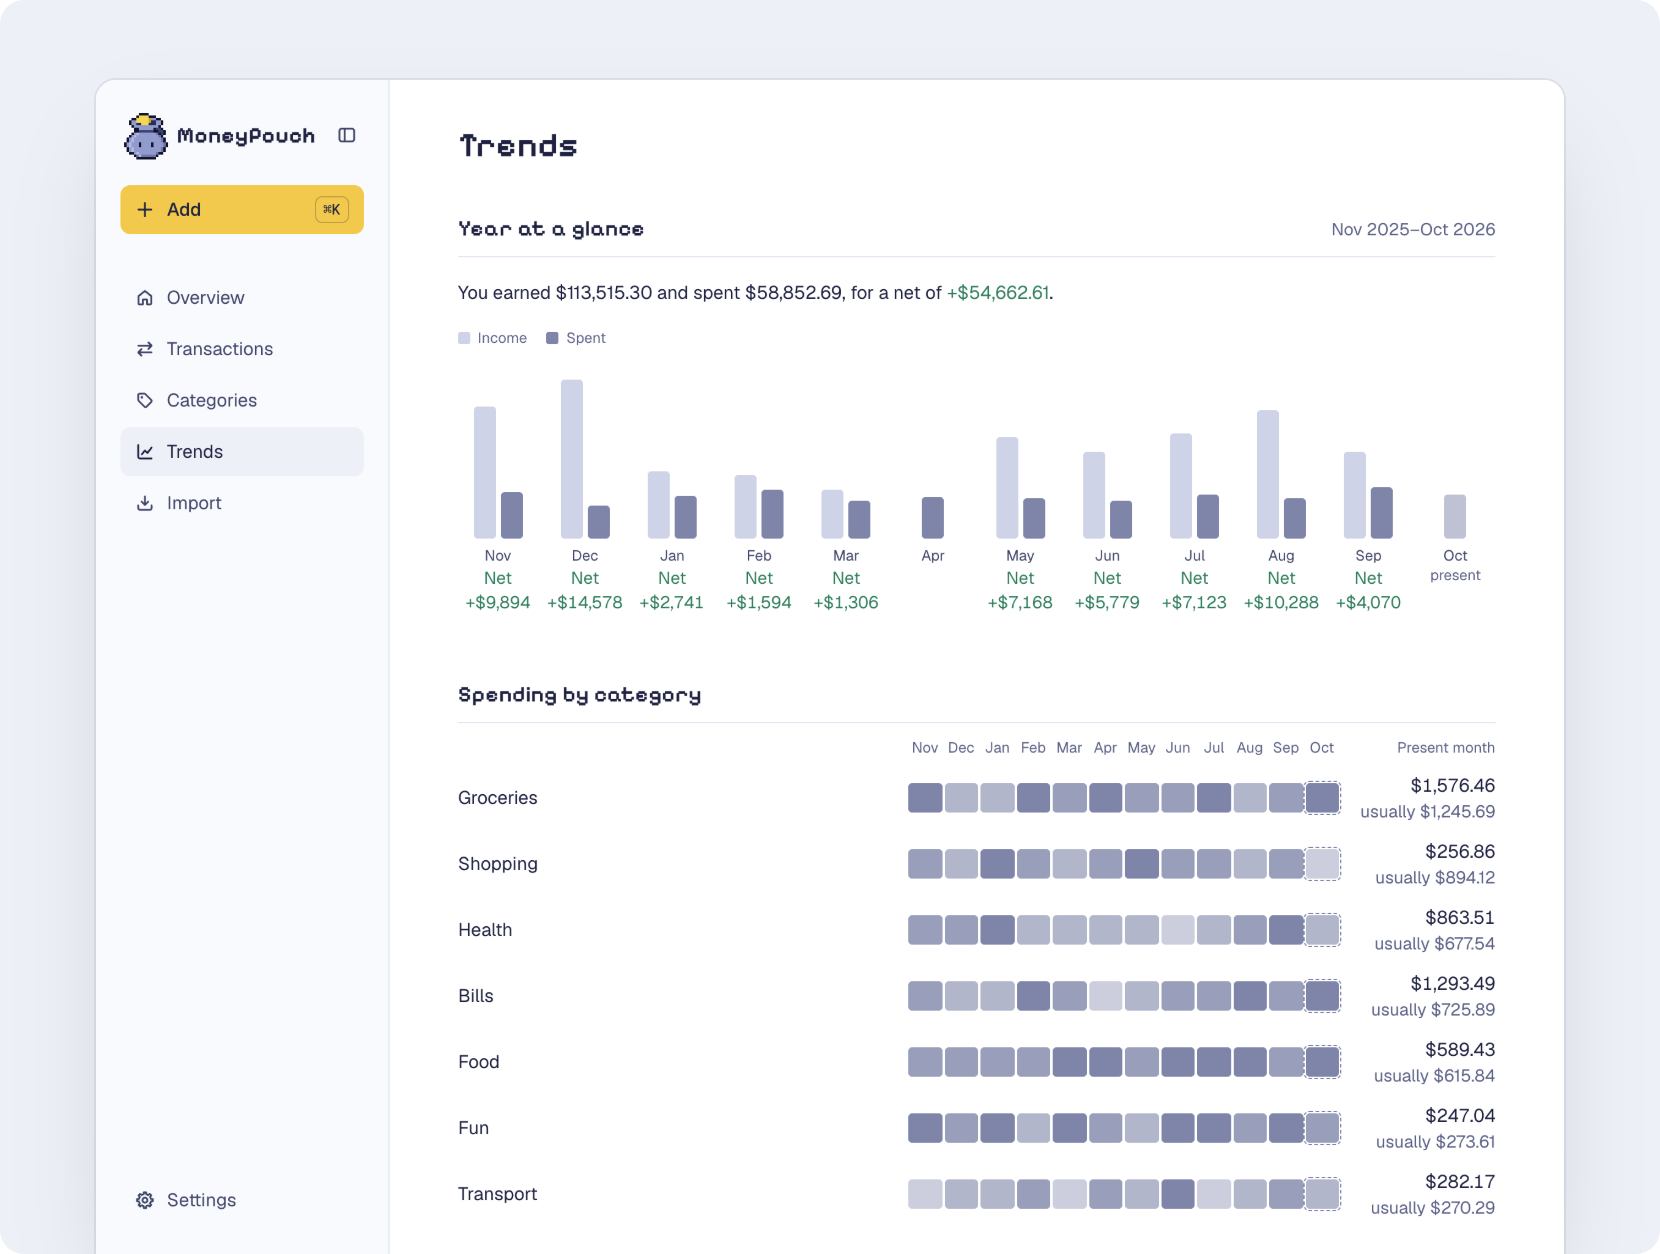
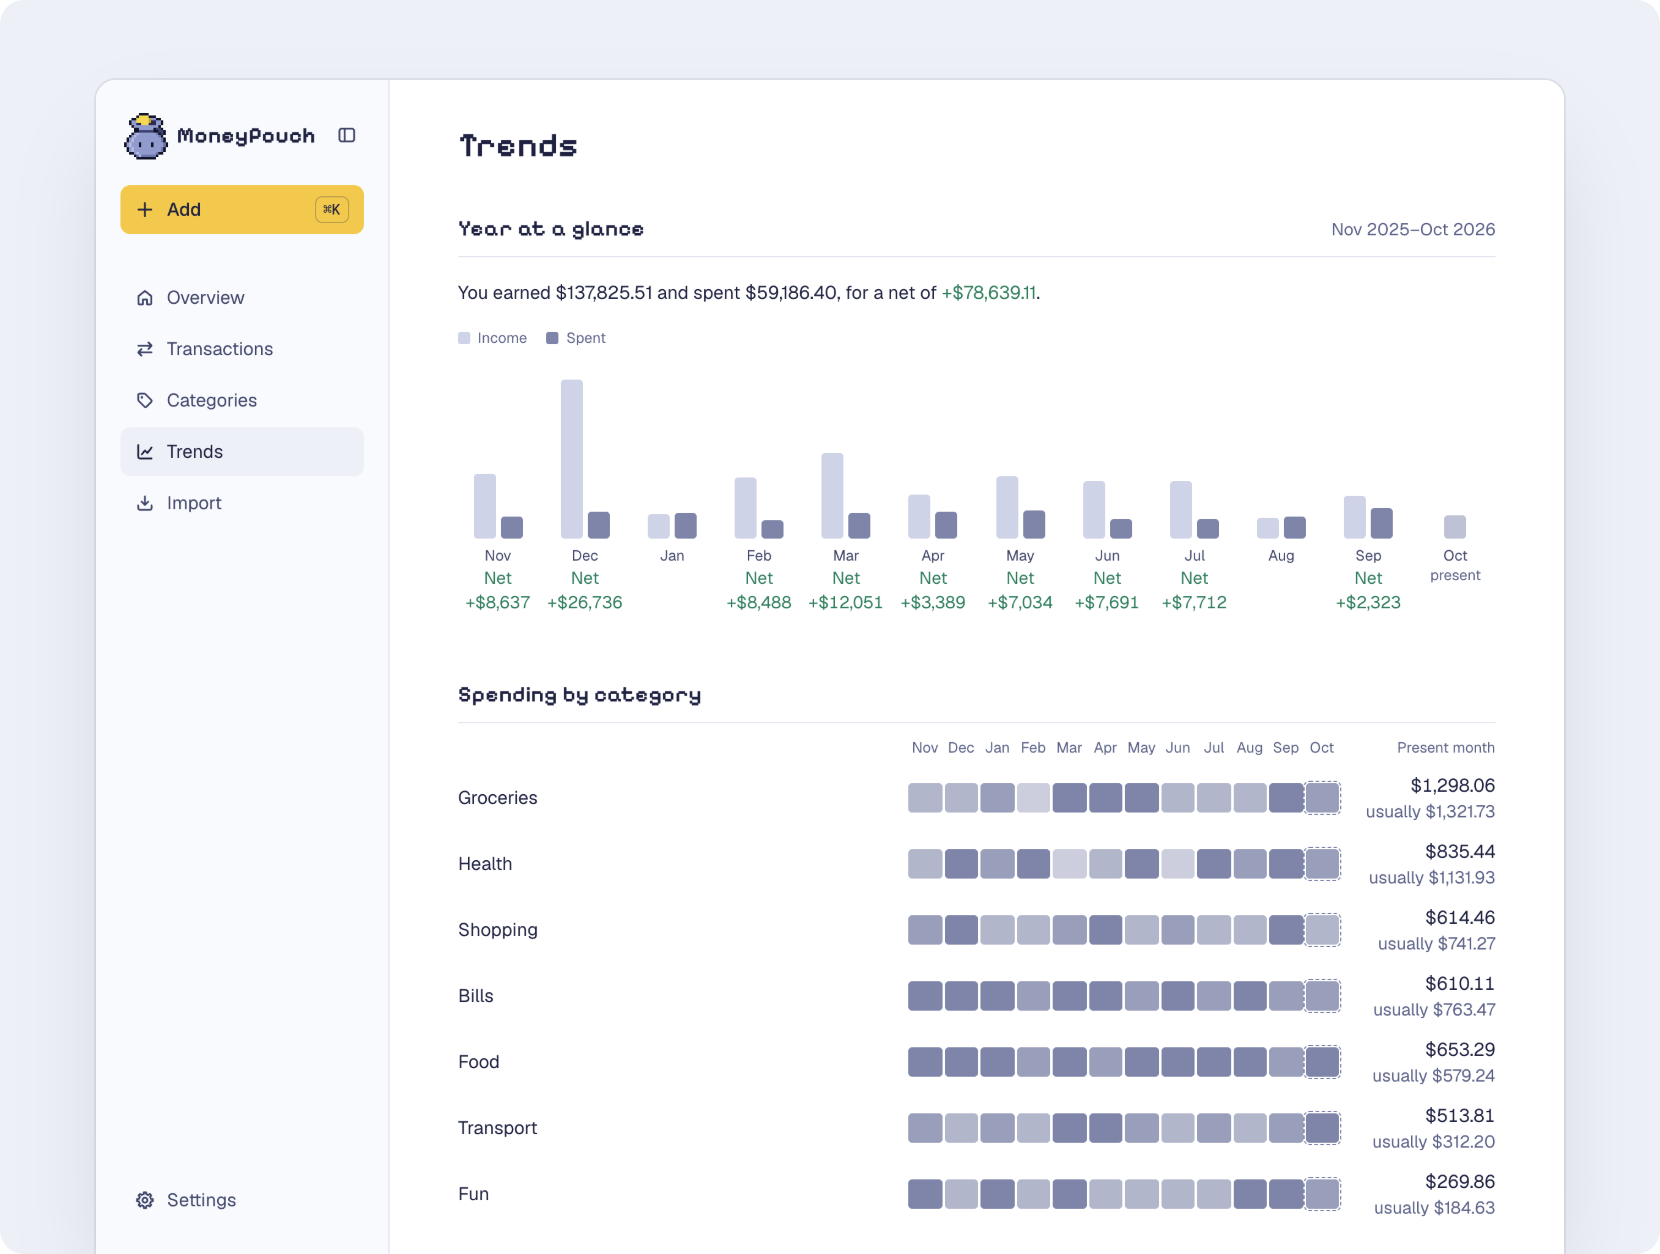
docs(readme): record a borderless demo that tours add, search, and Trends (#193)
The demo GIF was pasted into the grey screenshot backdrop. It now shows
the app edge to edge, as a user sees it, and goes on past quick add to a
slash search for chipotle across all months and then Trends. The palette
is built from every frame so the green Net figures keep their color.

Regenerated every README image from the same fake data.

diff --git a/README.md b/README.md
@@ -16,7 +16,7 @@
 </p>
 
 <p align="center">
-  <img src="docs/images/demo.gif" alt="Pressing Command K, typing Chip, pressing Tab to complete Chipotle, adding 11.25 yesterday, and pressing Enter. Chipotle appears in Recent and the October total goes up">
+  <img src="docs/images/demo.gif" alt="Pressing Command K, typing Chip, pressing Tab to complete Chipotle, adding 11.25 yesterday, and pressing Enter. Chipotle appears in Recent and the October total goes up. Then pressing slash to search Transactions for chipotle across all months, and opening Trends for the year at a glance">
 </p>
 
 <table>
